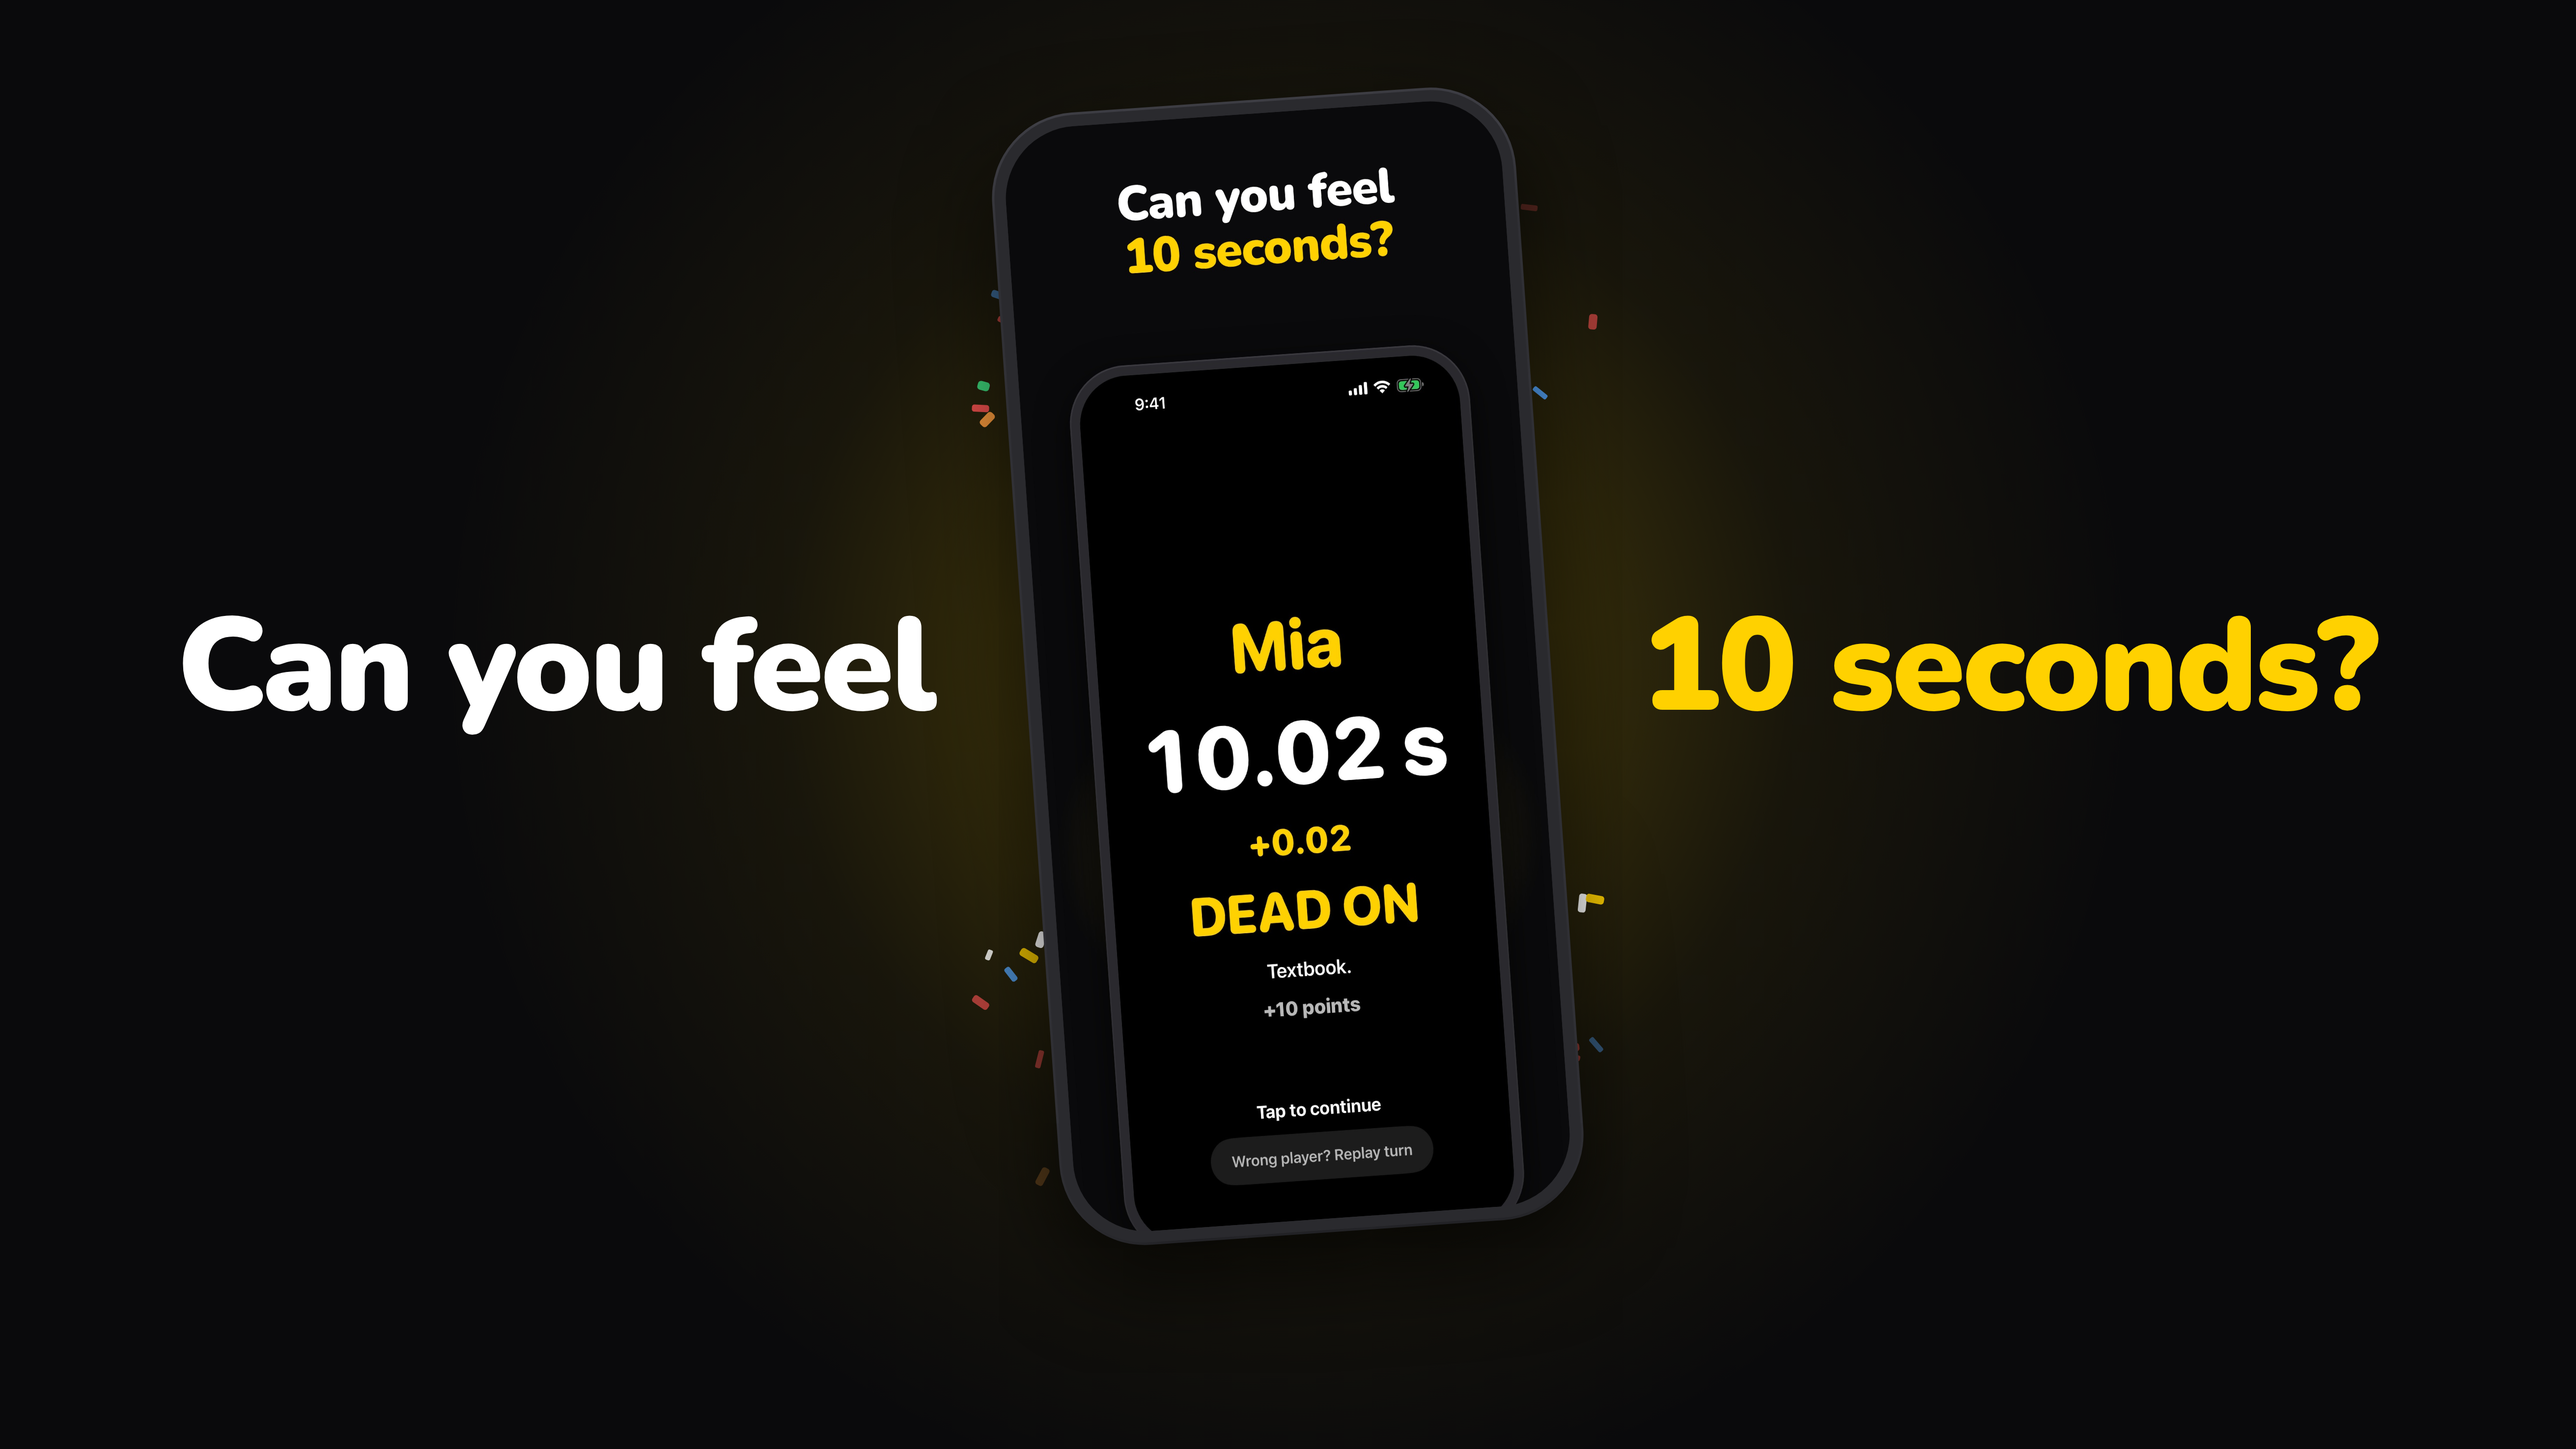
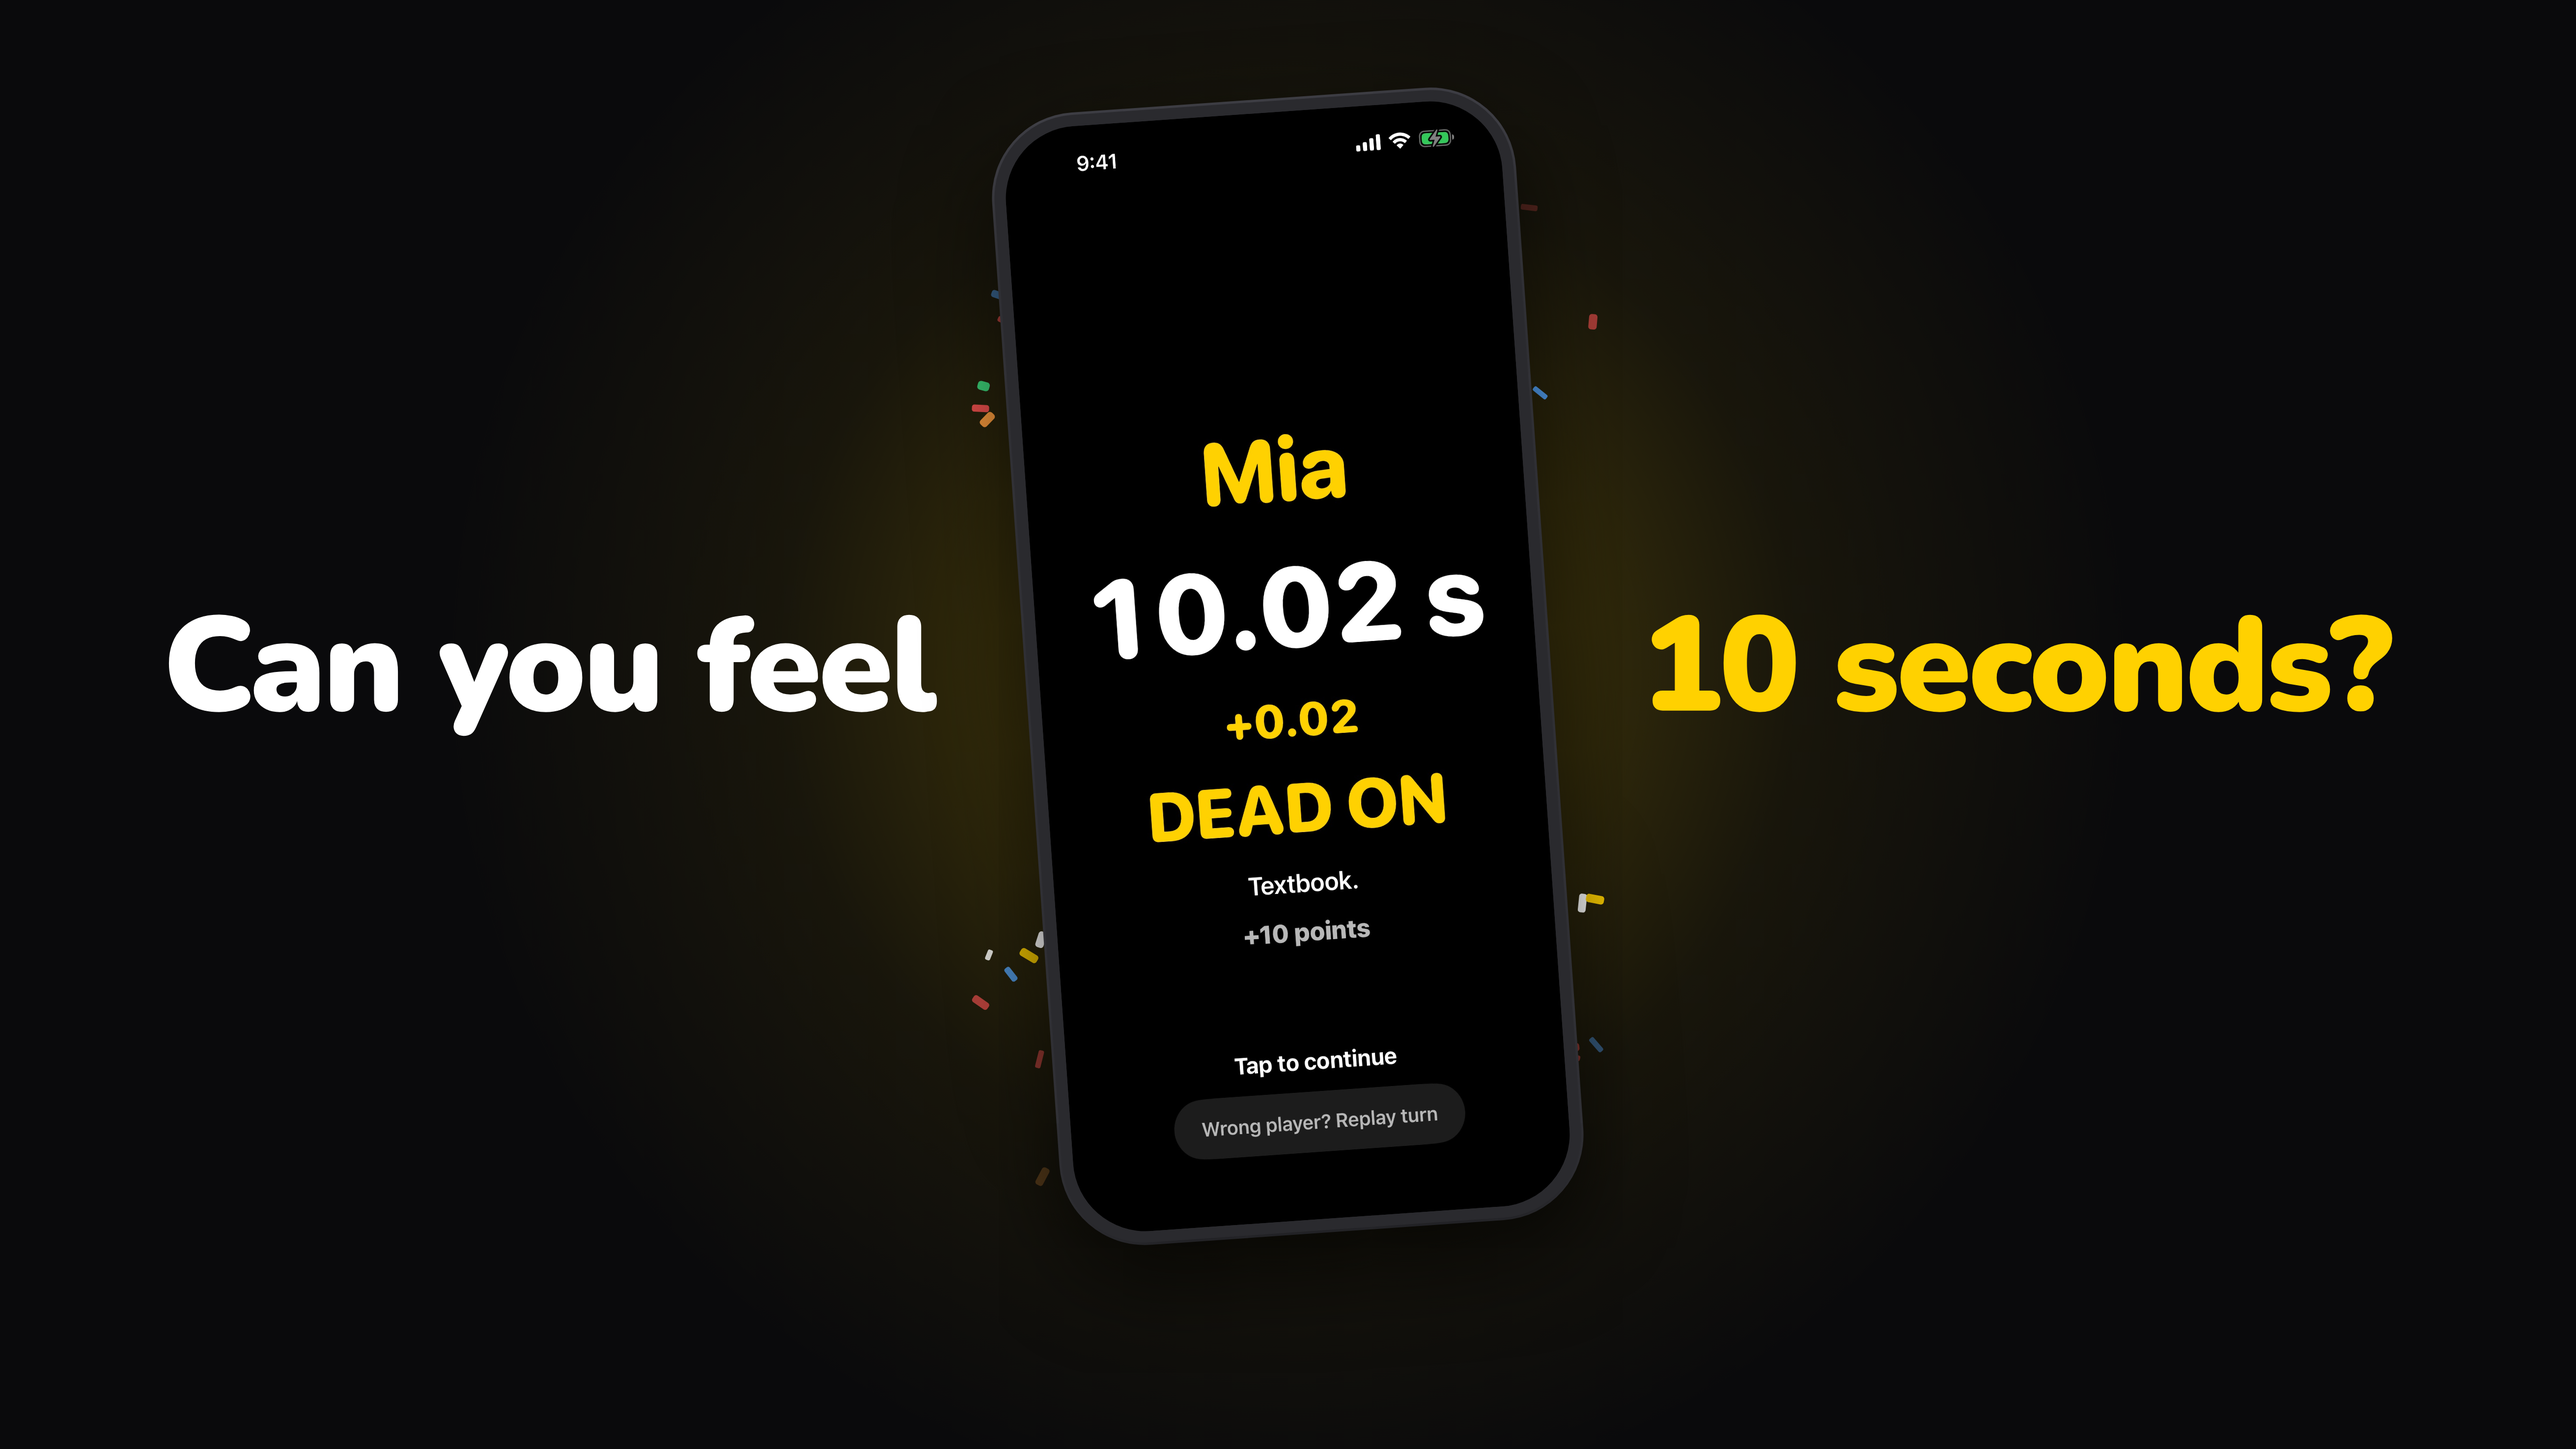
Keep the product page header inside the area iPhone shows
On iPhone the header fills the screen width and crops its sides, which
cut the phrase off. Headers now stack the phrase on two lines next to
the phone, all within the center 1.45 x height. The artwork also takes
the raw capture again instead of the captioned screenshot.

Claude-Session: https://claude.ai/code/session_011p3umjyuRcNfqhaWRUa1vA

diff --git a/marketing/appstore-art/render.py b/marketing/appstore-art/render.py
@@ -27,11 +27,17 @@ from playwright.sync_api import sync_playwright
 HERE = Path(__file__).resolve().parent
 ROOT = HERE.parent.parent
 FONTS = ROOT / "marketing" / "tools" / "fonts"
-SCREENSHOT = ROOT / "AppStore" / "Screenshots" / "iPhone-6.9" / "1-dead-on.jpg"
+SCREENSHOT = ROOT / "AppStore" / "Screenshots" / "raw" / "iPhone-6.9" / "dead-on.jpg"
 OUT = ROOT / "AppStore" / "Artwork"
 
-# name: (width, height, format)
 SRGB = ImageCms.ImageCmsProfile(ImageCms.createProfile("sRGB")).tobytes()
+
+# The product page header fills the iPhone's width and crops the sides:
+# only a center area of about 1.45 x the height stays visible. Everything
+# that matters in a header sits inside that area.
+HEADER_SAFE_RATIO = 1.45
+
+# name: (width, height, format)
 
 SIZES = {
     "header-16x9-5244x2950": (5244, 2950, "png"),
@@ -69,16 +75,19 @@ def confetti(cx, cy, inner, outer, count, seed, band):
     return "".join(pieces)
 
 
-def page(width, height):
+def page(width, height, header):
     # The phone sets the scale: it fills most of the height, sitting a
     # little above center so the bottom stays clear for the App Store.
     phone_h = height * 0.78
     phone_w = phone_h * 1320 / 2868
     cx, cy = width / 2, height * 0.46
-    side = (width - phone_w) / 2
-    # The phrase, left and right of the phone, as large as fits.
-    font = min(side * 0.82 / 6.4, height * 0.14)
     gap = phone_w * 0.18
+    # The phrase, left and right of the phone, as large as fits: on one
+    # line, or on two inside a header's visible area.
+    safe = min(width, height * HEADER_SAFE_RATIO) if header else width
+    side = (safe - phone_w) / 2 - gap
+    lines = ("Can you<br>feel", "10<br>seconds?") if header else ("Can you feel", "10 seconds?")
+    font = min(side * 0.92 / (4.6 if header else 6.4), height * 0.14)
     fonts = f"@font-face {{ font-family: Nunito; font-weight: 900; src: url({data_uri(FONTS / 'nunito-latin-900-normal.woff2', 'font/woff2')}); }}"
     svg = (
         f'<svg class="art" width="{width}" height="{height}" viewBox="0 0 {width} {height}">'
@@ -106,15 +115,15 @@ body {{
 .phone img {{ width: 100%; height: 100%; display: block; border-radius: {phone_w * 0.14:.0f}px; }}
 .phrase {{
   position: absolute; top: {cy:.0f}px; transform: translateY(-50%);
-  font-size: {font:.0f}px; line-height: 1; letter-spacing: {-font * 0.02:.1f}px; white-space: nowrap;
+  font-size: {font:.0f}px; line-height: 1.05; letter-spacing: {-font * 0.02:.1f}px; white-space: nowrap;
 }}
 .left {{ right: {cx + phone_w / 2 + gap:.0f}px; color: #FFFFFF; text-align: right; }}
 .right {{ left: {cx + phone_w / 2 + gap:.0f}px; color: {ACCENT}; }}
 </style></head><body>
 {svg}
-<div class="phrase left">Can you feel</div>
+<div class="phrase left">{lines[0]}</div>
 <div class="phone"><img src="{data_uri(SCREENSHOT, 'image/jpeg')}"></div>
-<div class="phrase right">10 seconds?</div>
+<div class="phrase right">{lines[1]}</div>
 </body></html>"""
 
 
@@ -129,7 +138,7 @@ def main():
         browser = p.chromium.launch(**launch)
         for name, (width, height, kind) in SIZES.items():
             tab = browser.new_page(viewport={"width": width, "height": height})
-            tab.set_content(page(width, height))
+            tab.set_content(page(width, height, header=name.startswith("header")))
             tab.evaluate("document.fonts.ready")
             tab.wait_for_timeout(300)
             png = tab.screenshot(clip={"x": 0, "y": 0, "width": width, "height": height})

diff --git a/AppStore/Artwork/README.md b/AppStore/Artwork/README.md
@@ -1,7 +1,7 @@
 # App Store artwork
 
 Rendered by `python3 marketing/appstore-art/render.py` from
-`AppStore/Screenshots/iPhone-6.9/1-dead-on.jpg`, following Apple's
+`AppStore/Screenshots/raw/iPhone-6.9/dead-on.jpg`, following Apple's
 [asset best practices](https://developer.apple.com/app-store/asset-best-practices/)
 and [creative asset specifications](https://developer.apple.com/help/app-store-connect/reference/app-information/creative-assets-specifications):
 
@@ -9,6 +9,8 @@ and [creative asset specifications](https://developer.apple.com/help/app-store-c
 - A single idea with the focal point in the center: the DEAD ON moment.
 - A short phrase that adds to the visual; no logo or app name (the App
   Store shows them), no prices, URLs or awards.
+- The header keeps everything inside the center 1.45 x its height: on
+  iPhone the product page crops its sides away.
 - The bottom edge stays clear for the App Store's own overlay.
 - No alpha channel; the 16:9 sizes are PNG as the specification requires.
 
